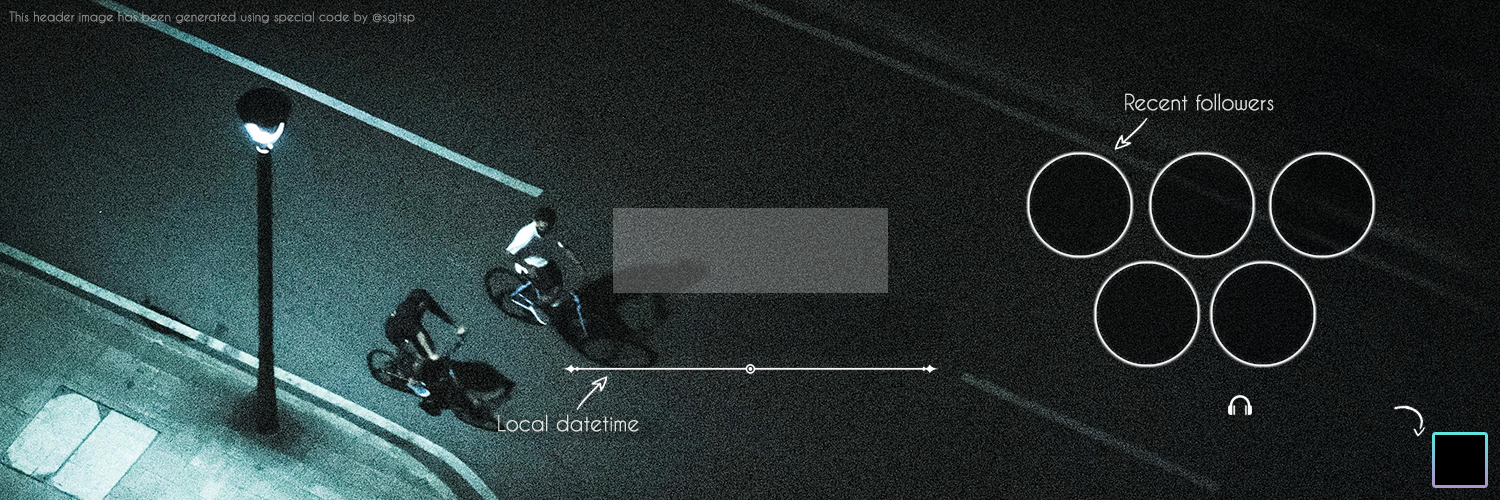
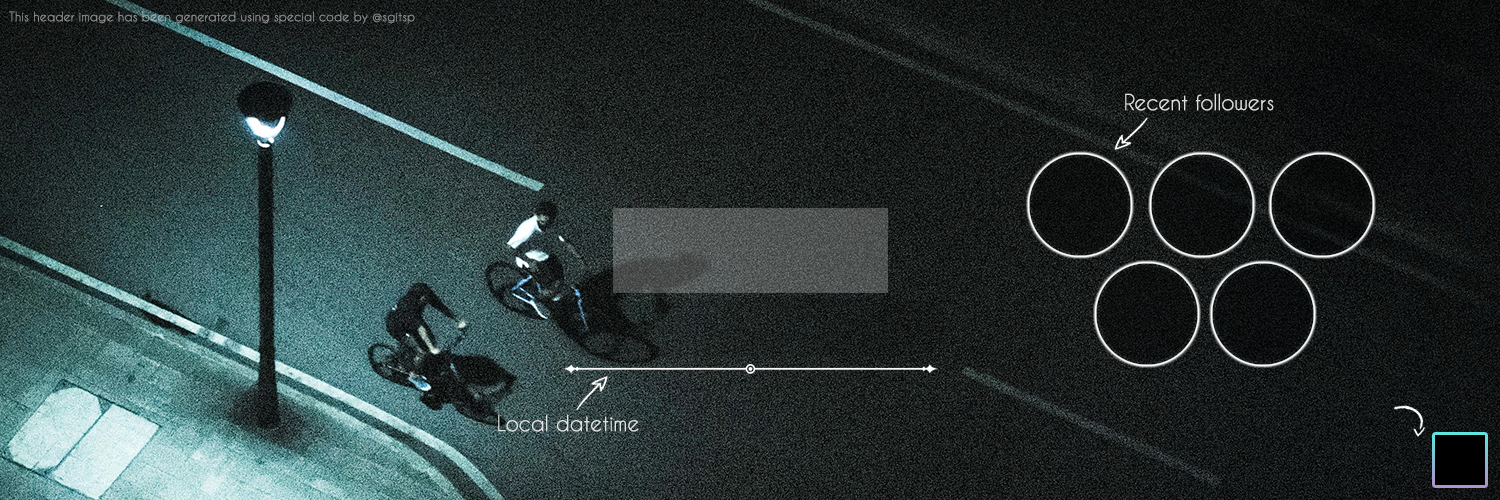
Change header

Changed region(s): [[0.0, 0.0, 1.0, 1.0], [0.828, 0.42, 0.8587, 0.51], [0.8587, 0.54, 0.8893, 0.57]]

diff --git a/index.js b/index.js
@@ -275,11 +275,11 @@ async function drawBanner() {
         alignmentY: Jimp.VERTICAL_ALIGN_BOTTOM
       }, 1580, 307); // January*/
       console.log(`Local time updated!`);
-      banner.print(nowPlayingFont, 1257, 0, {
+      banner.print(nowPlayingFont, 0, 0, {
         text: nowPlaying,
-        alignmentX: Jimp.HORIZONTAL_ALIGN_LEFT,
+        alignmentX: Jimp.HORIZONTAL_ALIGN_RIGHT,
         alignmentY: Jimp.VERTICAL_ALIGN_BOTTOM
-      }, 1500, 416);
+      }, 1385, 416);
       banner.print(listeningFont, 0, 0, {
         text: trackTitle,
         alignmentX: Jimp.HORIZONTAL_ALIGN_RIGHT,
